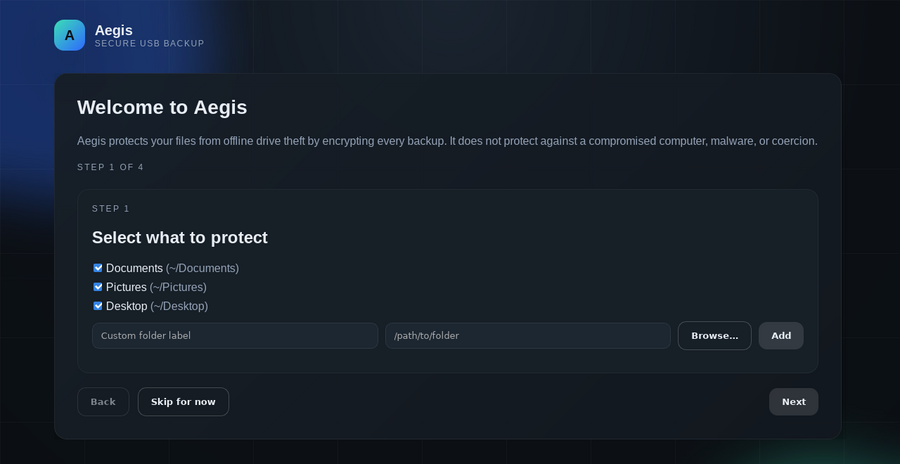
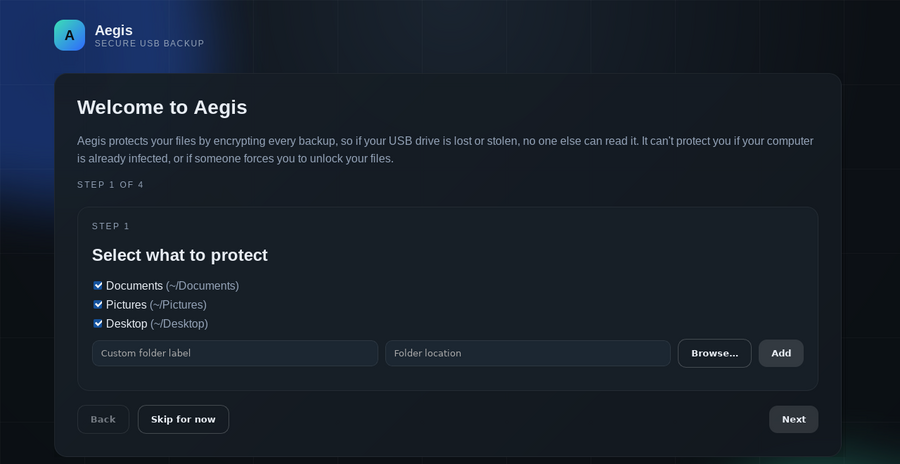
Dashboard: hide drive actions until a drive is set up; refresh screenshots
Claude-Session: https://claude.ai/code/session_014td1s8H3NMcLL54fT7WV3P

diff --git a/apps/ui/frontend/app.js b/apps/ui/frontend/app.js
@@ -556,7 +556,10 @@ function renderBackupTargets(trustedDrives, status) {
       .filter(Boolean)
   );
   list.innerHTML = "";
-  if (!Array.isArray(trustedDrives) || trustedDrives.length === 0) {
+  const noDrives = !Array.isArray(trustedDrives) || trustedDrives.length === 0;
+  // Nothing to back up to yet: hide drive actions instead of showing them disabled.
+  document.getElementById("backup-now")?.closest(".actions")?.classList.toggle("no-drives", noDrives);
+  if (noDrives) {
     empty.classList.remove("hidden");
     return;
   }

diff --git a/apps/ui/frontend/styles.css b/apps/ui/frontend/styles.css
@@ -1161,3 +1161,9 @@ body.setup-loading .device-danger {
   transform: none;
   box-shadow: none;
 }
+
+.actions.no-drives #backup-now,
+.actions.no-drives #restore-btn,
+.actions.no-drives #eject-btn {
+  display: none;
+}
